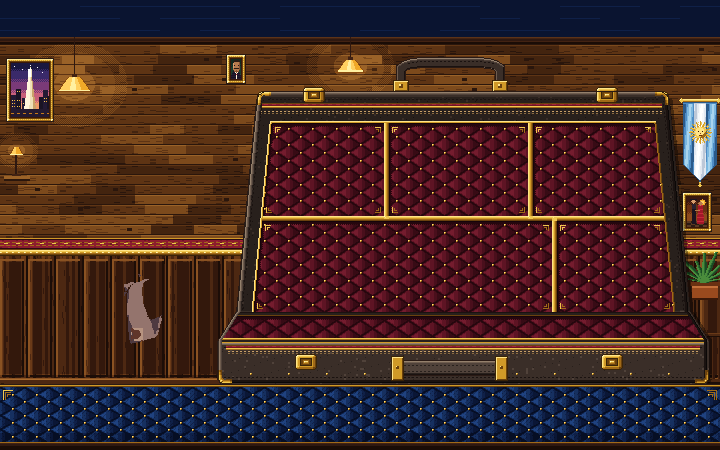
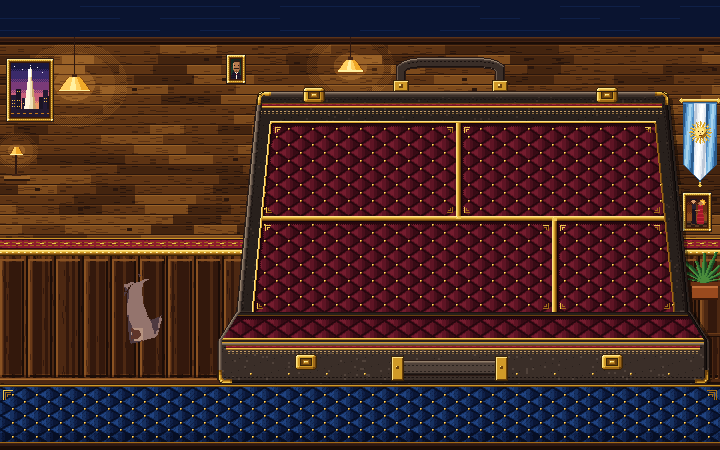
Tienda sin números (son recompensa), contador de monedas en la bandeja y Total en las monedas que suman algo

Changed region(s): [[0.7333, 0.28, 0.7639, 0.4978], [0.6111, 0.28, 0.6417, 0.4978], [0.5194, 0.28, 0.55, 0.4978]]

diff --git a/ESTADO.md b/ESTADO.md
@@ -1,3 +1,5 @@
+> Actualización del 25/11/2026 (suite: 5219 comprobaciones, 1 falla que ya estaba en `main`: estrellas de la copa): **Tienda sin números, contador de monedas y totales, rama `feature/pantallas`.** Las mejoras de número y los cambios de cara ya no se venden: son solo la recompensa de los rivales (`Shop.SECTIONS` sin `numbers`; `numbers` sigue en `SIZES` para sortear la recompensa y para partidas viejas; contadores de renovación en `Shop.RENEWABLE`). El maletín vuelve a tener arriba dos secciones, componentes y stickers (`make_tienda_secciones.gd` con la división de arriba en su lugar original). Se sacó el cartel «CAPACIDAD»: abajo a la derecha de la bandeja de monedas hay un contador «equipadas/lugares» (`CoinCounter`). Las monedas que suman algo que cambia muestran «Total: …» en su ayuda, a la venta y propias: Interés (por el saldo), por niveles de stickers, por monedas equipadas, por nivel, y las que acumulan (`main.gd: coin_total_for`). Pruebas de interfaz que compraban números en la tienda pasan por el stock o por la recompensa. **No resuelto:** prueba del autor, balance, avisar a Notion a mano.
+
 > Actualización del 25/11/2026 (suite: 5215 comprobaciones, 1 falla que ya estaba en `main`: estrellas de la copa): **Recompensas y tienda más chica, rama `feature/pantallas`.** El botón de la esquina de la libreta es el Menú de la partida (`TableMenu`; ya no hay Menú arriba en la mesa). Tienda: tres monedas pasivas sueltas, sin paquete, y la de un uso al costado; componentes solo con elementos y cambios de material. Recompensas (a prueba, fase `bonus`, ventana `RewardChoice`): cada rival da una mejora de número o un cambio de cara; cada jefe (y el guardián), una gema; gratis, se toman o se dejan, con azar propio reproducible. Guardado v12 con migración. La campaña de prueba toma las recompensas por la interfaz; los recorridos viejos las dejan (`Flow.skip_bonus`, `past_reward`). Recorrido natural de Flow y Presentación con semilla 18. La suite cuenta menos comprobaciones porque se sacó un paso por encuentro en algunas rutas. **No resuelto:** balance de las recompensas, decidir si «CAPACIDAD» se renombra, prueba del autor, avisar a Notion a mano.
 
 > Actualización del 25/11/2026 (suite: 5470 comprobaciones, 1 falla que ya estaba en `main`: estrellas de la copa): **Ajustes de jefes, cobro y tienda, rama `feature/pantallas`.** (1) Don Cebador ya no roba el termo: te lo cambia. Su termo (capa de atrás de su mano) baja a la mesa sin stickers y el tuyo sube a su lugar, inclinado; se cruzan en arco y al vencerlo vuelven igual (`backdrop.gd: _draw_thermos_pose`, `SWAP_*`); ficha «Termo cambiado». (2) La Semilla con ese poder solo anula los stickers: el termo no se mueve. (3) El «+$total» del cobro es neto de la reparación de gemas (`Game.net_payout`; puede mostrar «-$X»). (4) Tras vencer a un jefe (y al guardián) se entra sí o sí a la tienda (`SHOP_AFTER_BOSS = true`); al salir, la selección anuncia el primer encuentro del nivel siguiente y Jugar entra directo. (5) En la tienda toda ayuda sale arriba de lo señalado (también monedas y dados propios), y las monedas que acumulan muestran «Total: …» en su ayuda, en la mesa y en la tienda. (6) Textos de Fuego y Agua corregidos (+5 puntos si el dado muestra 4–6 / 1–3 y está en un grupo armado; suelto no suma). **No resuelto:** prueba del autor en el juego; avisar a Notion a mano.

diff --git a/docs/TIENDA-POR-SECCIONES.md b/docs/TIENDA-POR-SECCIONES.md
@@ -4,6 +4,8 @@ Modelo y generador implementados y probados el 26 de octubre de 2026. D01/D02/D0
 
 > **Actualización del 25/11/2026 (D20, opción B del boceto `tools/art/bocetos-tienda/`):** el maletín tiene cinco secciones. Arriba: componentes (2), números (2) y stickers (2). Abajo: monedas (4: tres pasivas sueltas y el paquete de monedas en el cuarto lugar) y **single_use** (1 moneda de un uso). Las sueltas de `coins` ya no traen monedas de un uso; esas salen solo en `single_use` (de la misma tabla de monedas, con las mismas reglas de bloqueadas, una vez por partida y pasivas propias). El paquete sigue sorteando entre las dos clases. Orden del sorteo (fija el azar): `Shop.SECTIONS` = coins, single_use, components, numbers, stickers. Cada sección tiene su renovación y su contador. Arte: `tienda-secciones-v4.png` (`tools/art/make_tienda_secciones.gd`). Guardado v11: las partidas de antes reciben la sección vacía sin re-sortear. La tabla de abajo es la histórica.
 
+> **Última actualización del 25/11/2026:** las mejoras de número y los cambios de cara **ya no se venden**: son solo la recompensa de los rivales. El maletín tiene arriba componentes (elementos y materiales) y stickers, y abajo tres monedas pasivas y la de un uso. El contador de monedas equipadas está en la bandeja de abajo (sin cartel de capacidad).
+
 > **Actualización posterior del 25/11/2026 (a prueba):** `coins` trae **tres monedas pasivas sueltas y no hay paquete de monedas** (`coin_packs` vacío; la lógica del paquete queda para partidas viejas y sus pruebas). `components` vende solo **elementos y cambios de material**: las gemas salen de la tienda y pasan a ser la **recompensa de cada jefe** (tabla `gems`). Las mejoras de número y los cambios de cara siguen en la tienda y además son la **recompensa de cada rival**. Ver «Recompensas» en `REGLAS-VIGENTES.md`.
 
 ## Stock identificado y distribución

diff --git a/docs/REGLAS-VIGENTES.md b/docs/REGLAS-VIGENTES.md
@@ -147,4 +147,4 @@ Después del cobro, cada encuentro ganado (menos el último de la versión) da u
 - **Rival:** una mejora de número o un cambio de cara, sorteada con los mismos pesos que la tienda. El cambio de cara pide elegir dado y cara.
 - **Jefe (también el guardián):** una gema (esmeralda, zafiro, rubí o diamante, al azar), que va al dado que se elija.
 
-Se puede **tomar** o **dejar**. El sorteo usa un azar propio (semilla de la partida, nivel y encuentro): no cambia los dados ni la tienda y es el mismo al recargar. Las gemas ya no se venden en la tienda; las mejoras de número y los cambios de cara siguen a la venta. No hay recompensas en el tutorial ni en partidas sin tablas de balance. Código: `Game.pending_reward`, `_draw_reward`, `take_reward`, `skip_reward`; ventana: `main.gd: render_reward_choice`.
+Se puede **tomar** o **dejar**. El sorteo usa un azar propio (semilla de la partida, nivel y encuentro): no cambia los dados ni la tienda y es el mismo al recargar. Ni las gemas ni las mejoras de número ni los cambios de cara se venden en la tienda: solo salen como recompensa. No hay recompensas en el tutorial ni en partidas sin tablas de balance. Código: `Game.pending_reward`, `_draw_reward`, `take_reward`, `skip_reward`; ventana: `main.gd: render_reward_choice`.
